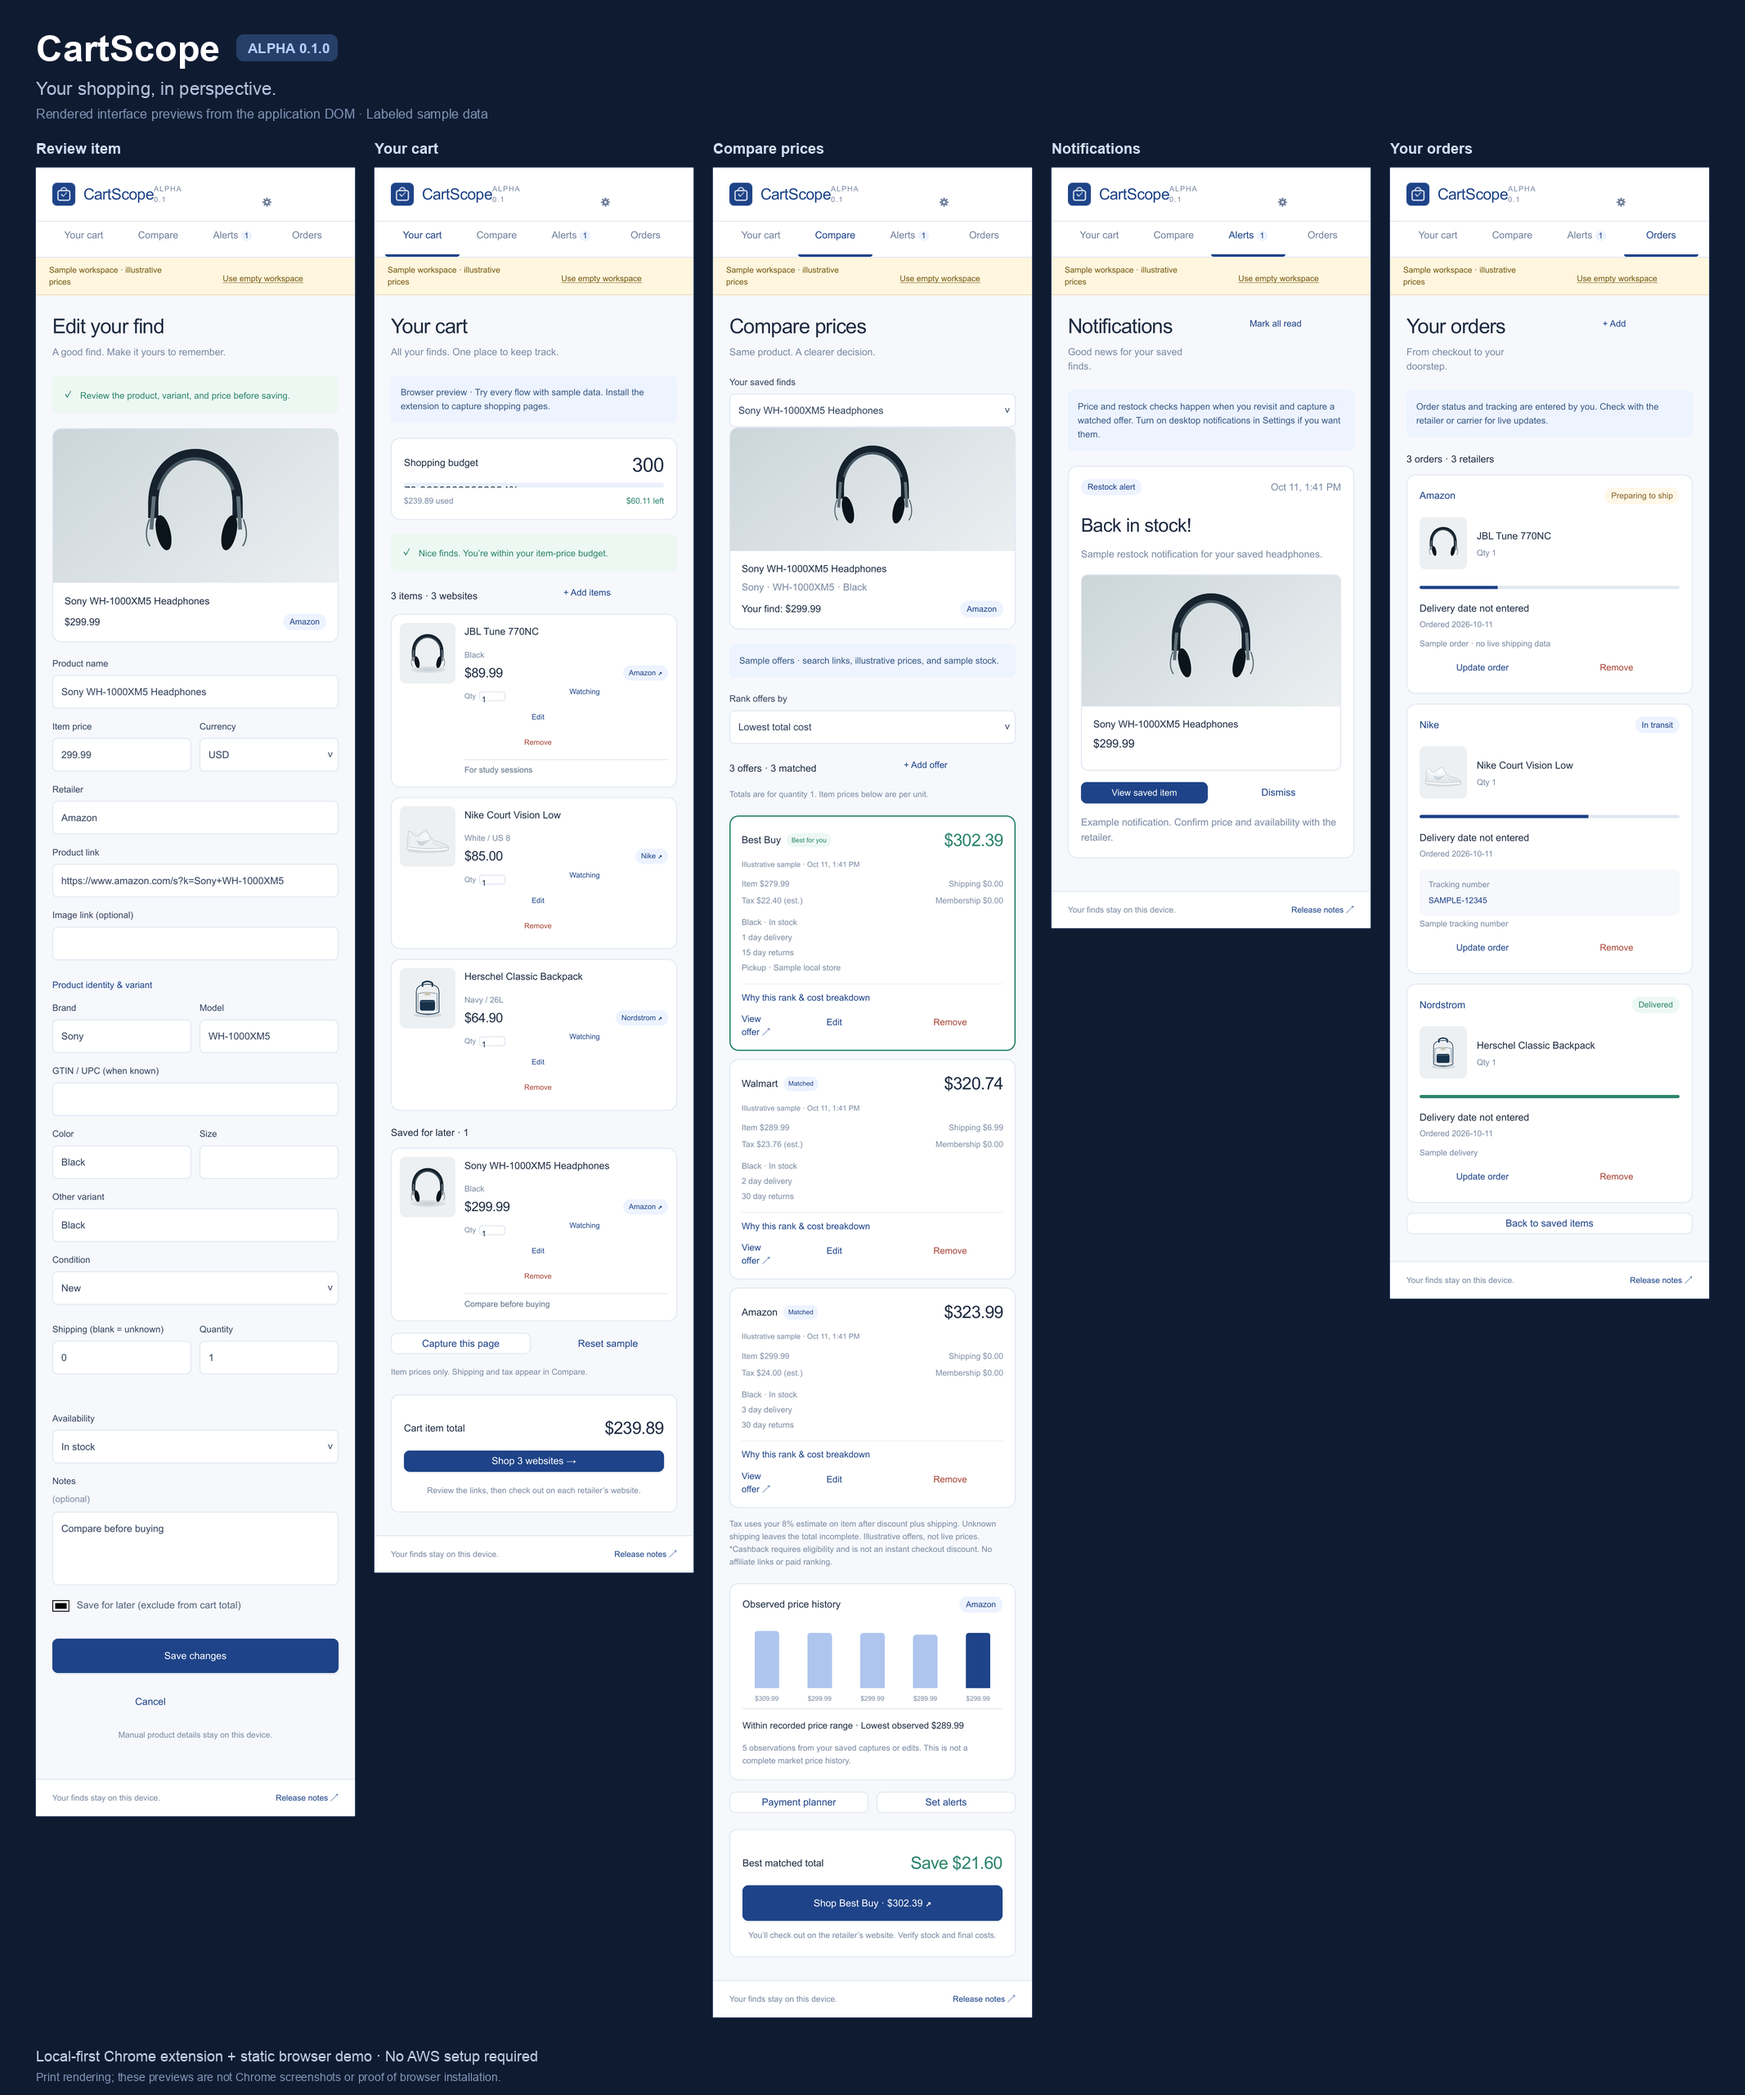
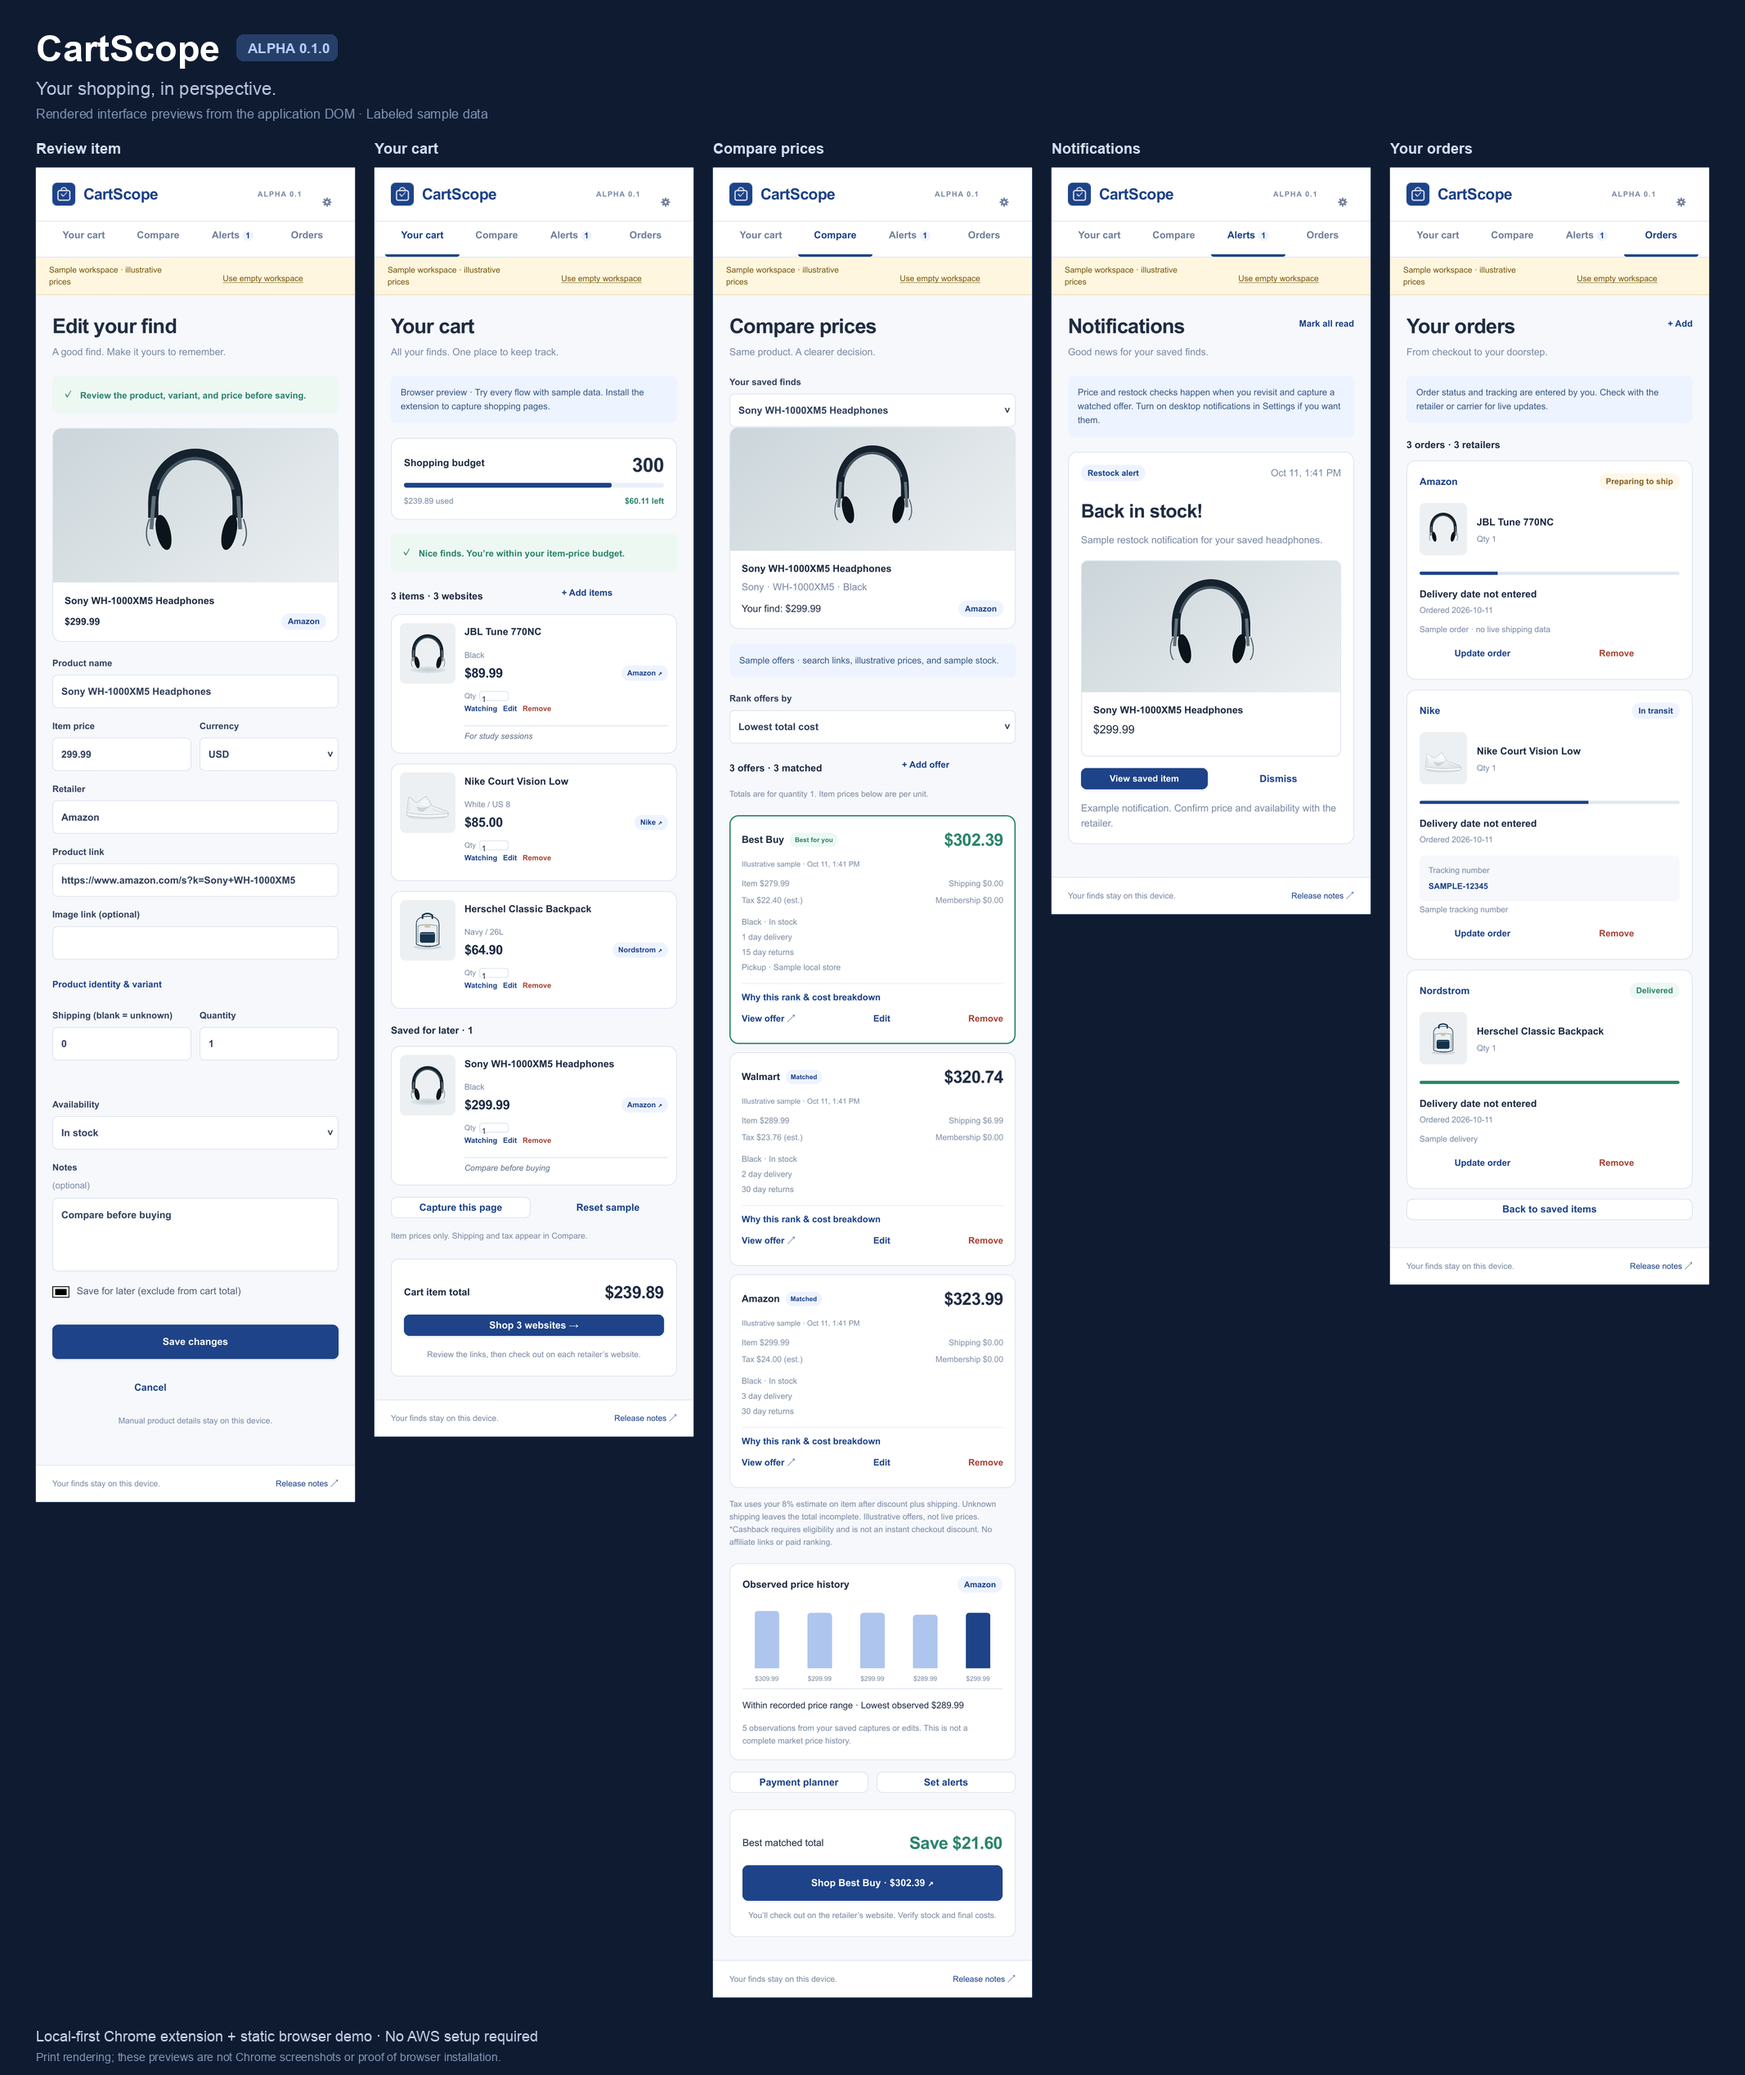
Finish alpha interface previews and announcement template

diff --git a/scripts/render-previews.py b/scripts/render-previews.py
@@ -14,6 +14,7 @@ import json
 import logging
 import os
 from pathlib import Path
+import re
 import shutil
 import subprocess
 
@@ -49,15 +50,26 @@ LABELS = {"cart": "Your cart", "review": "Review item", "compare": "Compare pric
           "notifications": "Notifications", "orders": "Your orders"}
 PRINT_CSS = """
 @page { size: 390px 2400px; margin: 0; }
-html { width:390px; background:#f6f8fc; }
-body { width:390px; min-width:390px; max-width:390px; min-height:0;
-       margin:0 !important; border:0; border-radius:0; box-shadow:none; }
-.app-header { height:66px; }
-main { padding:23px 20px 28px; }
-.app-header,.app-footer { padding-left:20px; padding-right:20px; }
-details:not([open]) > :not(summary) { display:none; }
+html { width:390px !important; background:#f6f8fc !important; font-family:Arial,sans-serif !important; }
+body { width:390px !important; min-width:390px !important; max-width:390px !important; min-height:0 !important;
+       margin:0 !important; border:0 !important; border-radius:0 !important; box-shadow:none !important; }
+.app-header { height:66px !important; }
+.brand { flex:0 0 185px !important; }
+.alpha { flex:0 0 55px !important; margin-left:auto !important; white-space:nowrap !important; }
+.icon-button { flex:0 0 24px !important; }
+main { padding:23px 20px 28px !important; }
+.app-header,.app-footer { padding-left:20px !important; padding-right:20px !important; }
+.page-heading { display:block !important; position:relative !important; }
+.page-heading > button { position:absolute !important; right:0; top:0; width:auto !important; }
+details:not([open]) > :not(summary) { display:none !important; }
+.item-controls { display:block !important; }
+.item-controls label { display:inline-flex !important; margin-right:7px !important; vertical-align:middle; }
+.item-controls button { display:inline-block !important; margin-right:7px !important; width:auto !important; vertical-align:middle; }
+.offer-actions .text-button { display:inline-block !important; width:auto !important; flex:none !important; white-space:nowrap !important; }
+.render-progress { height:6px; width:100%; display:block; border-radius:10px; overflow:hidden; margin-bottom:9px; background:#eaf0fb; }
+.render-progress > span { display:block; height:6px; background:#1e4388; border-radius:10px; }
 .toast { display:none !important; }
-button { appearance:none; }
+button { appearance:none !important; }
 """
 
 
@@ -73,7 +85,15 @@ def font(size: int, bold: bool = False) -> ImageFont.FreeTypeFont:
 
 
 def render(source: Path, pdf: Path, output: Path, poppler: str) -> dict:
-    document = HTML(filename=str(source)).render(stylesheets=[CSS(string=PRINT_CSS)])
+    markup = source.read_text()
+    def progress(match):
+        attributes = match.group(1)
+        value = re.search(r'value=["\']([^"\']+)', attributes)
+        maximum = re.search(r'max=["\']([^"\']+)', attributes)
+        ratio = min(100, max(0, float(value.group(1)) / float(maximum.group(1)) * 100))
+        return f'<div class="render-progress"><span style="width:{ratio}%"></span></div>'
+    markup = re.sub(r'<progress\b([^>]*)>.*?</progress>', progress, markup, flags=re.DOTALL)
+    document = HTML(string=markup, base_url=str(source.parent)).render(stylesheets=[CSS(string=PRINT_CSS)])
     if len(document.pages) != 1:
         raise RuntimeError(f"{source.name}: content overflows its preview page")
     # Crop the PNG to the laid-out footer, rather than keeping unused page space.
@@ -92,7 +112,8 @@ def render(source: Path, pdf: Path, output: Path, poppler: str) -> dict:
         original.crop((0, 0, original.width, height)).save(output)
     return {"source": str(source.relative_to(ROOT)), "output": str(output.relative_to(ROOT)),
             "renderer": "WeasyPrint", "source_kind": "serialized actual application DOM",
-            "browser_screenshot": False, "print_css_overrides": True}
+            "browser_screenshot": False, "print_css_overrides": True,
+            "progress_control_rendered_from_dom_value": True}
 
 
 def collage(output: Path, views: Path):

diff --git a/docs/visuals/README.md b/docs/visuals/README.md
@@ -1,0 +1,18 @@
+# Rendered interface previews
+
+These images show the actual CartScope interface populated with labeled sample data. The input HTML was serialized from the application's UI DOM by the test harness. `scripts/render-previews.py` renders that HTML with WeasyPrint, converts intermediate PDFs with Poppler, and assembles the five-screen overview with Pillow.
+
+**Provenance:** print-rendered interface previews, not Chrome screenshots. They illustrate the interface and do not establish that the extension installed or ran successfully in Chrome. The browser smoke-test record is maintained separately.
+
+Print-only adjustments pin the page to a 390-pixel panel, use Arial, give header/control elements widths the print renderer understands, hide closed details, and paint the budget progress bar from its actual serialized value. Runtime source files are unchanged by the preview script. Minor layout differences from Chrome are expected because WeasyPrint uses a print layout engine. Sample prices, stock, order statuses, and dates are illustrative.
+
+- [Five-screen overview](cartscope-overview.png)
+- [Review item](review.png)
+- [Saved cart](cart.png)
+- [Offer comparison and price history](compare.png)
+- [Notifications](notifications.png)
+- [Orders](orders.png)
+- [Payment planner](finance.png)
+- [Settings](settings.png)
+
+The [render manifest](render-manifest.json) records the source and renderer for each view. To regenerate, first produce `artifacts/ui-html/*.html` using the UI harness, then run `python scripts/render-previews.py` in an environment with WeasyPrint, Pillow, Pango, system fonts, and `pdftoppm`. These are documentation-authoring tools; they are not extension dependencies or required for users to run CartScope. Set `PDFTOPPM` if Poppler is not on PATH. On systems with multiple native-library installations, `CARTSCOPE_LIBRARY_DIRS` can pin the authoring process to a consistent font-library set.

diff --git a/docs/ALPHA_EMAIL.md b/docs/ALPHA_EMAIL.md
@@ -48,11 +48,11 @@ If you prefer a private response or do not have a GitHub account, reply to this 
 
 https://github.com/qarteu/cartscope/blob/main/docs/FEEDBACK_PLAN.md
 
-Please send your feedback by **[date and time, including time zone]**. Let us know your Chrome version and operating system if something fails. If installation fails, a description of the step and the visible error is enough; include a screenshot only if it contains no sensitive information.
+Please send your feedback by **October 18, 2026 at 5:00 PM Pacific** (suggested Alpha feedback deadline; adjust before sending if needed). Let us know your Chrome version and operating system if something fails. If installation fails, a description of the step and the visible error is enough; include a screenshot only if it contains no sensitive information.
 
 Thanks,
 
-[sender name] on behalf of the CartScope team  
+Kartik Malunjkar on behalf of the CartScope team  
 Kartik, Jake Clevenger, and Eashan
 
 ---
